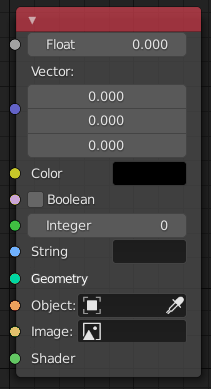
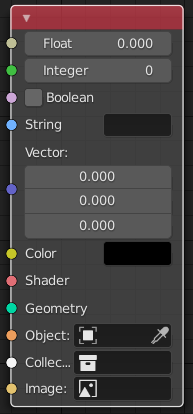
Nodes: add Collection socket type
rB4885fbc07b50af0f7b93c0df41d6f64cc79b2fa7

git-svn-id: https://svn.blender.org/svnroot/bf-manual/trunk@7571 c4de1f47-6596-e411-a384-0024e86c2797

diff --git a/blender_docs/manual/interface/controls/nodes/parts.rst b/blender_docs/manual/interface/controls/nodes/parts.rst
@@ -47,25 +47,27 @@ Float (gray)
    bright/dark reflects the value for each point.)
    If a single value is used as an input for a "value map" socket, all points of the map are set to this same value.
    Common use: Alpha maps and value options for a node.
+Integer (lime green)
+   Used to pass an integer value (a number without a fractional component).
+Boolean (pink)
+   Used to pass a true or false value.
+String (light blue)
+   Used to pass a text value.
 Vector (dark blue)
    Indicates vector, coordinate and normal information.
 Color (yellow)
    Indicates that color information needs to be input or will be output from the node.
    Depending on the node tree type, the color has an alpha channel or not.
-Boolean (pink)
-   Used to pass a true or false value.
-Integer (lime green)
-   Used to pass an integer value (a number without a fractional component).
-String (light blue)
-   Used to pass a text value.
+Shader (bright green)
+   Used for shaders in :doc:`Cycles </render/cycles/index>` and :doc:`Eevee </render/eevee/index>`.
 Geometry (turquoise)
    Used in :doc:`Geometry Nodes </modeling/modifiers/nodes/index>`.
 Object (orange)
    Used to pass an object data-block.
+Collection (white)
+   Used to pass a collection data-block.
 Image (apricot)
    Used to pass an image data-block.
-Shader (bright green)
-   Used for shaders in :doc:`Cycles </render/cycles/index>` and :doc:`Eevee </render/eevee/index>`.
 
 
 Inputs
